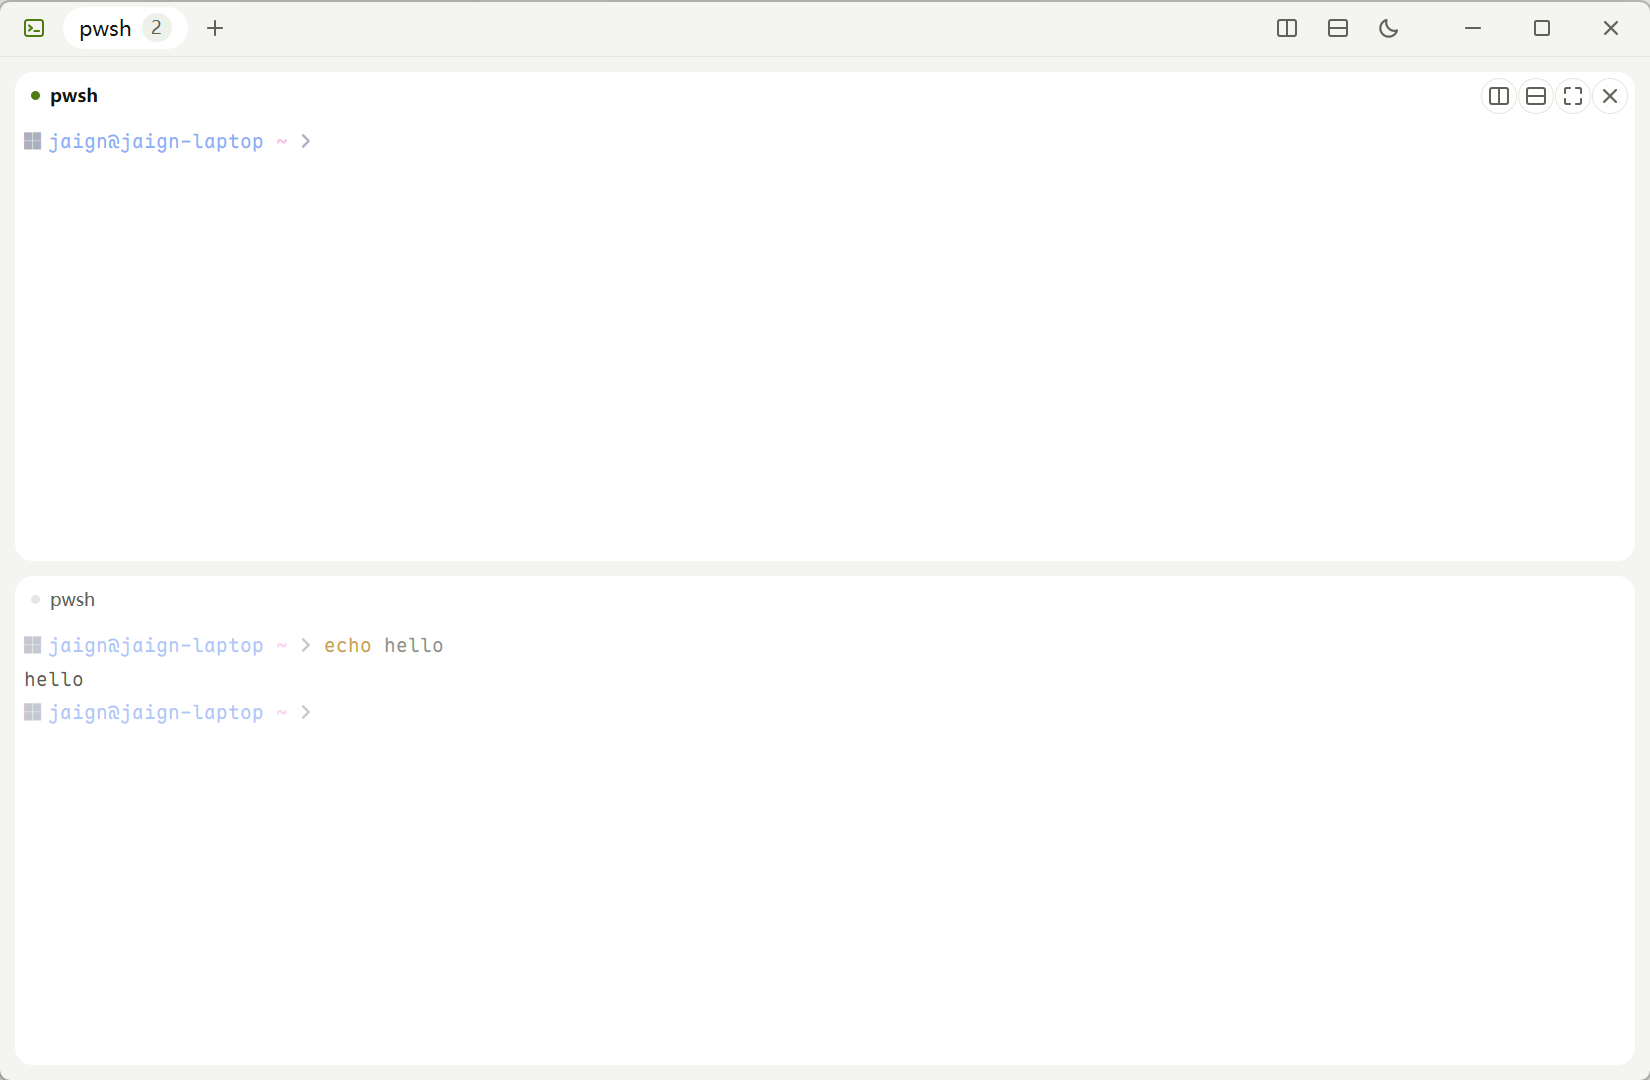
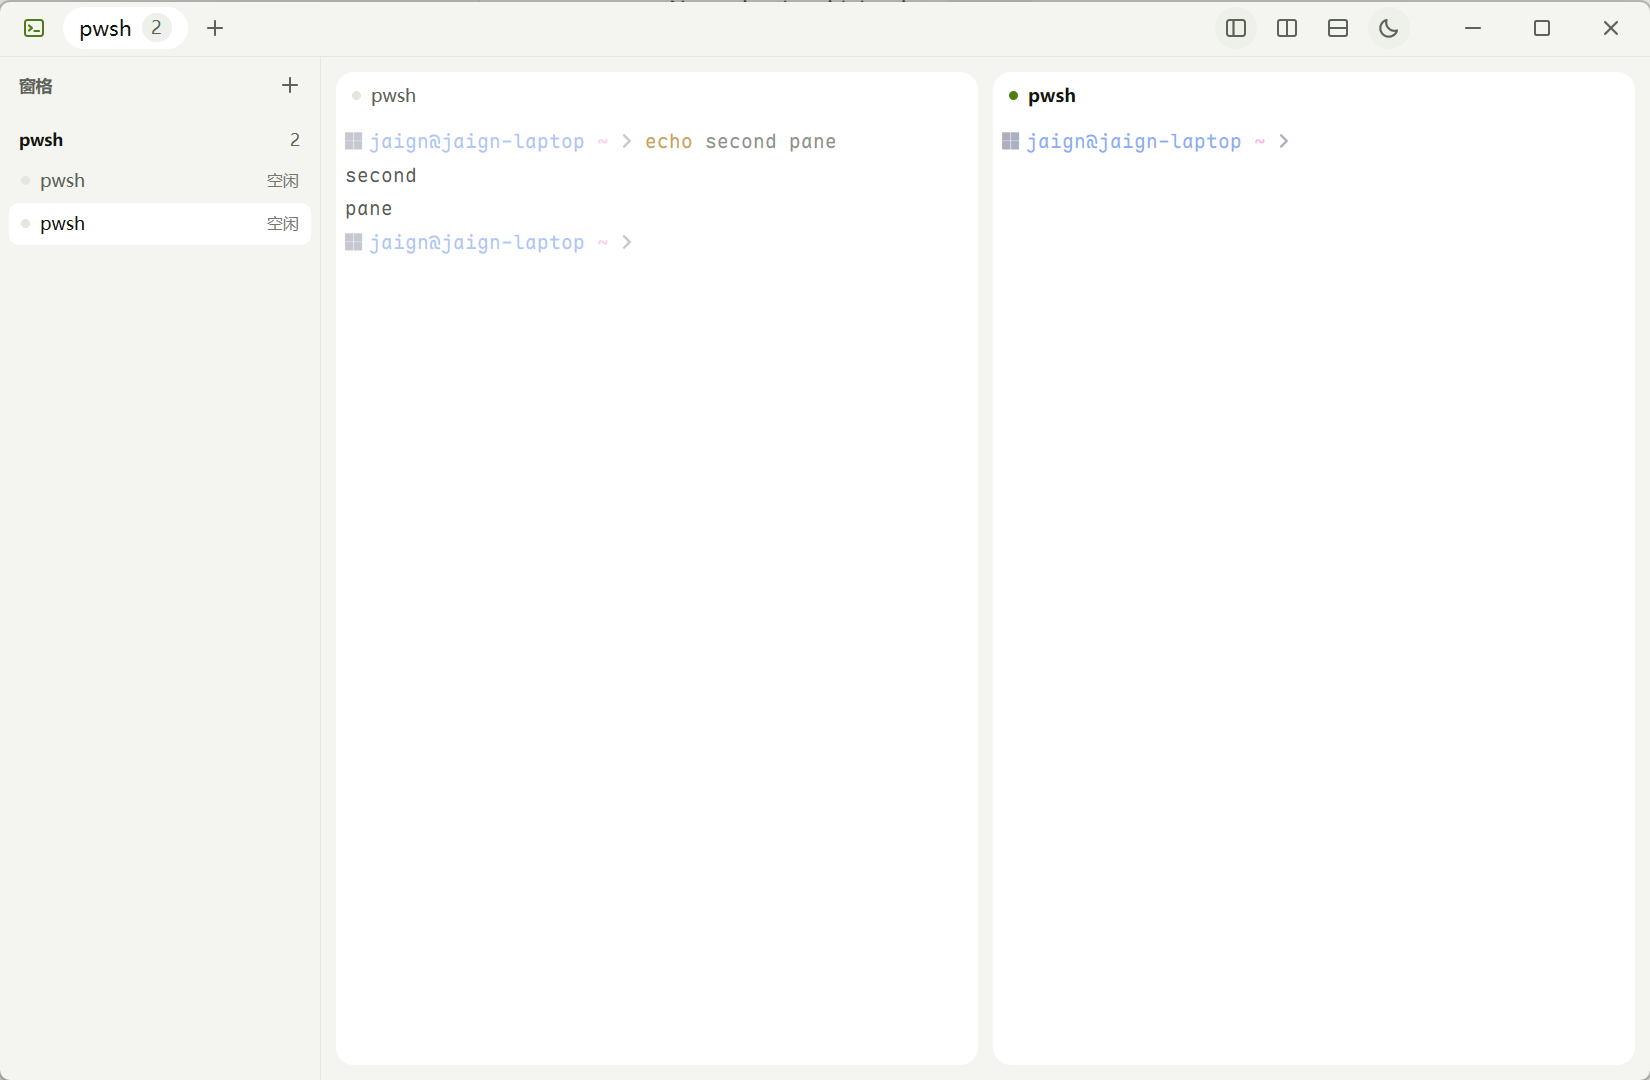
Add a sidebar that lists panes and what they are doing
Tabs and splits are two ways of saying the same thing, and once a window has
both, finding a particular pane means reading a tab strip and then a grid. The
list flattens that: each tab is a group, each pane a row with a state dot, a
name and what it is doing. Clicking a row takes the same path as clicking the
pane itself, so the two can never disagree.

The state asks nothing of the program. A pane is working when it wrote
something in the last moment, idle when it has not, exited when the process is
gone — which describes a shell, a build and a test watcher without any of them
having to report in.

It only appears when there is something to list. A single terminal with a
one-row list is a column spent on nothing, so the default follows the pane
count; once the user toggles it, that choice sticks.

Assisted-by: Cindy (https://cindy.app)

diff --git a/crates/app/src/main.rs b/crates/app/src/main.rs
@@ -41,6 +41,10 @@ const WINDOW_MINIMIZE: &[u8] = br#"<svg xmlns="http://www.w3.org/2000/svg" viewB
 const WINDOW_MAXIMIZE: &[u8] = br#"<svg xmlns="http://www.w3.org/2000/svg" viewBox="0 0 24 24" fill="none" stroke="black" stroke-width="2" stroke-linecap="round"><rect x="5" y="5" width="14" height="14" rx="1.5"/></svg>"#;
 
 /// Zoom a pane to fill the card; and the reverse.
+
+/// The sidebar toggle: a column beside a page.
+const SIDEBAR_ICON: &[u8] = br#"<svg xmlns="http://www.w3.org/2000/svg" viewBox="0 0 24 24" fill="none" stroke="black" stroke-width="2" stroke-linecap="round" stroke-linejoin="round"><rect x="3" y="4" width="18" height="16" rx="2.5"/><path d="M9.5 4v16"/></svg>"#;
+
 const ZOOM_IN: &[u8] = br#"<svg xmlns="http://www.w3.org/2000/svg" viewBox="0 0 24 24" fill="none" stroke="black" stroke-width="2" stroke-linecap="round" stroke-linejoin="round"><path d="M4 9V5.5A1.5 1.5 0 0 1 5.5 4H9"/><path d="M15 4h3.5A1.5 1.5 0 0 1 20 5.5V9"/><path d="M20 15v3.5a1.5 1.5 0 0 1-1.5 1.5H15"/><path d="M9 20H5.5A1.5 1.5 0 0 1 4 18.5V15"/></svg>"#;
 const ZOOM_OUT: &[u8] = br#"<svg xmlns="http://www.w3.org/2000/svg" viewBox="0 0 24 24" fill="none" stroke="black" stroke-width="2" stroke-linecap="round" stroke-linejoin="round"><path d="M9 4v3.5A1.5 1.5 0 0 1 7.5 9H4"/><path d="M20 9h-3.5A1.5 1.5 0 0 1 15 7.5V4"/><path d="M15 20v-3.5a1.5 1.5 0 0 1 1.5-1.5H20"/><path d="M4 15h3.5A1.5 1.5 0 0 1 9 16.5V20"/></svg>"#;
 
@@ -69,6 +73,9 @@ const PANE_HEADER_HEIGHT: f32 = 32.0;
 
 /// Corner radius of a pane card.
 const PANE_RADIUS: f32 = 12.0;
+
+/// Width of the pane list.
+const SIDEBAR_WIDTH: f32 = 214.0;
 
 /// Builds the 256-entry palette the parser should report: the ANSI sixteen
 /// followed by the library's defaults for the rest.
@@ -305,6 +312,9 @@ pub struct Workspace {
     /// A pane shown on its own, filling the window. The rest of the split stays
     /// as it was and comes back when the zoom is released.
     zoomed: Option<u64>,
+    /// What the user asked for. `None` means "decide by how much there is to
+    /// list", which is what keeps a single terminal free of a list of one.
+    sidebar_choice: Option<bool>,
     /// The split being dragged, as the two panes on either side plus the span
     /// the divider travels across. Present only while the divider is held.
     resize_drag: Option<ResizeDrag>,
@@ -330,6 +340,7 @@ impl Workspace {
             drag_anchor: None,
             selection: false,
             zoomed: None,
+            sidebar_choice: None,
             resize_drag: None,
             focus: cx.focus_handle(),
         }
@@ -653,6 +664,11 @@ impl Workspace {
                 }
                 "l" => {
                     self.toggle_theme(cx);
+                    cx.stop_propagation();
+                    return;
+                }
+                "b" => {
+                    self.toggle_sidebar(cx);
                     cx.stop_propagation();
                     return;
                 }
@@ -1181,11 +1197,18 @@ impl Render for Workspace {
 
         body = body.child(self.render_tabs(window, cx));
 
+        // The list and the panes sit side by side under the bar, so the window
+        // still has exactly one title row.
+        let mut content = div().flex_1().min_h_0().flex().flex_row();
+        if self.sidebar_shown() {
+            content = content.child(self.render_sidebar(&theme, cx));
+        }
+
         if let Some(error) = &self.error {
             // A failure is the one moment the grid is not there, so it gets the
             // same card treatment as a pane rather than a bare line of red text
             // floating in an empty window.
-            body = body.child(
+            content = content.child(
                 div()
                     .flex_1()
                     .flex()
@@ -1218,17 +1241,17 @@ impl Render for Workspace {
                             ),
                     ),
             );
-            return body;
+            return body.child(content);
         }
 
         let Some(tab) = self.active_tab() else {
-            return body;
+            return body.child(content);
         };
 
         // The pane area is chrome, not grid: the space between panes shows this
         // tone, so the panes read as cards laid on a surface rather than as
         // rectangles that happen to stop.
-        body.child(
+        content = content.child(
             div()
                 .flex_1()
                 .min_h_0()
@@ -1236,7 +1259,9 @@ impl Render for Workspace {
                 .p(px(10.0))
                 .bg(theme.title_bar)
                 .child(self.render_panes(tab, style, cx)),
-        )
+        );
+
+        body.child(content)
     }
 }
 
@@ -1514,6 +1539,168 @@ impl Workspace {
 }
 
 impl Workspace {
+    /// Whether the sidebar is on screen.
+    ///
+    /// With no explicit choice it follows how much there is to list: a list of
+    /// one is not worth a column, and a window full of panes is worth one even
+    /// if nobody asked. An explicit toggle wins either way.
+    fn sidebar_shown(&self) -> bool {
+        let panes: usize = self.tabs.iter().map(|tab| tab.panes.len()).sum();
+        self.sidebar_choice.unwrap_or(panes > 1)
+    }
+
+    fn toggle_sidebar(&mut self, cx: &mut Context<Self>) {
+        self.sidebar_choice = Some(!self.sidebar_shown());
+        cx.notify();
+    }
+
+    /// Every tab and pane, with enough state to jump to one.
+    ///
+    /// This is the whole model the sidebar reads: it is rebuilt from the
+    /// workspace each frame rather than kept in step with it, so there is
+    /// nothing to keep in sync.
+    fn render_sidebar(
+        &self,
+        theme: &gpui_kit::component::Theme,
+        cx: &mut Context<Self>,
+    ) -> AnyElement {
+        let mut list = div().flex().flex_col().gap(px(1.0)).px(px(6.0)).pb(px(8.0));
+
+        for (tab_index, tab) in self.tabs.iter().enumerate() {
+            let current_tab = tab_index == self.active_tab;
+
+            list = list.child(
+                div()
+                    .flex()
+                    .flex_row()
+                    .items_center()
+                    .gap(px(6.0))
+                    .h(px(26.0))
+                    .px(px(7.0))
+                    .mt(px(4.0))
+                    .child(
+                        div()
+                            .flex_1()
+                            .min_w_0()
+                            .overflow_hidden()
+                            .whitespace_nowrap()
+                            .text_ellipsis()
+                            .text_size(px(11.0))
+                            .font_weight(FontWeight::BOLD)
+                            .text_color(if current_tab {
+                                theme.foreground
+                            } else {
+                                theme.muted_foreground
+                            })
+                            .child(tab.title.clone()),
+                    )
+                    .child(
+                        div()
+                            .text_size(px(11.0))
+                            .text_color(theme.muted_foreground)
+                            .child(tab.panes.len().to_string()),
+                    ),
+            );
+
+            for (id, pane) in &tab.panes {
+                let id = *id;
+                let selected = current_tab && id == tab.active;
+                let status = pane_status(pane);
+                // Captured by the listeners below, which outlive this borrow.
+                let hover_bg = theme.muted;
+                let selected_bg = theme.background;
+
+                list = list.child(
+                    div()
+                        .id(("side-pane", id))
+                        .flex()
+                        .flex_row()
+                        .items_center()
+                        .gap(px(7.0))
+                        .h(px(28.0))
+                        .px(px(8.0))
+                        .rounded(px(7.0))
+                        .cursor_pointer()
+                        .when(selected, |this| this.bg(selected_bg))
+                        .when(!selected, |this| this.hover(move |this| this.bg(hover_bg)))
+                        .on_click(cx.listener(move |workspace, _: &ClickEvent, _, cx| {
+                            workspace.active_tab = tab_index;
+                            workspace.focus_pane(id, cx);
+                        }))
+                        .child(div().size(px(6.0)).rounded(px(999.0)).bg(match status {
+                            PaneStatus::Working => theme.ring,
+                            PaneStatus::Idle => theme.border,
+                            PaneStatus::Exited => theme.danger,
+                        }))
+                        .child(
+                            div()
+                                .flex_1()
+                                .min_w_0()
+                                .overflow_hidden()
+                                .whitespace_nowrap()
+                                .text_ellipsis()
+                                .text_size(px(12.0))
+                                .text_color(if selected {
+                                    theme.foreground
+                                } else {
+                                    theme.muted_foreground
+                                })
+                                .child(pane_label(pane)),
+                        )
+                        .child(
+                            div()
+                                .text_size(px(10.5))
+                                .text_color(theme.muted_foreground.opacity(0.85))
+                                .child(status.label()),
+                        ),
+                );
+            }
+        }
+
+        let header = div()
+            .flex()
+            .flex_row()
+            .items_center()
+            .h(px(TITLE_BAR_HEIGHT))
+            .pl(px(13.0))
+            .pr(px(6.0))
+            .child(
+                div()
+                    .flex_1()
+                    .text_size(px(11.0))
+                    .font_weight(FontWeight::BOLD)
+                    .text_color(theme.muted_foreground)
+                    .child("窗格"),
+            )
+            .child(
+                icon_button("side-new", IconName::Plus, theme, cx).on_click(cx.listener(
+                    |workspace, _: &ClickEvent, window, cx| {
+                        workspace.new_tab(window, cx);
+                    },
+                )),
+            );
+
+        div()
+            .w(px(SIDEBAR_WIDTH))
+            .flex_shrink_0()
+            .h_full()
+            .flex()
+            .flex_col()
+            .bg(theme.title_bar)
+            .border_r_1()
+            .border_color(theme.border)
+            .child(header)
+            .child(
+                div()
+                    .id("side-list")
+                    .flex_1()
+                    .min_h_0()
+                    .overflow_y_scroll()
+                    .child(list),
+            )
+            .into_any_element()
+    }
+
     /// Draws the title bar: window drag area, tabs, and window controls.
     ///
     /// This is the whole title bar, not a strip under one. The tabs live where
@@ -1581,6 +1768,15 @@ impl Workspace {
                     .flex_1()
                     .h_full()
                     .window_control_area(WindowControlArea::Drag),
+            )
+            // The list comes before the pane actions: it is a place to go, not
+            // an action on the current pane.
+            .child(
+                icon_button("toggle-sidebar", Glyph::Inline(SIDEBAR_ICON), &theme, cx)
+                    .when(self.sidebar_shown(), |this| this.bg(theme.muted))
+                    .on_click(cx.listener(|workspace, _: &ClickEvent, _, cx| {
+                        workspace.toggle_sidebar(cx);
+                    })),
             )
             .child(
                 icon_button("split-h", Glyph::Inline(SPLIT_HORIZONTAL), &theme, cx).on_click(
@@ -2163,6 +2359,36 @@ fn tab_title(pane: &Pane) -> Option<String> {
         None
     } else {
         Some(name.to_owned())
+    }
+}
+
+/// What a pane is doing, as far as the sidebar can tell.
+///
+/// There is no agent detection here: a pane is working when it wrote something
+/// in the last moment, idle when it has not, and exited when the process is
+/// gone. That covers a shell, a build and a test watcher without asking any of
+/// them to cooperate.
+enum PaneStatus {
+    Working,
+    Idle,
+    Exited,
+}
+
+impl PaneStatus {
+    fn label(self) -> &'static str {
+        match self {
+            Self::Working => "输出中",
+            Self::Idle => "空闲",
+            Self::Exited => "已退出",
+        }
+    }
+}
+
+fn pane_status(pane: &Pane) -> PaneStatus {
+    match pane.session.exit_code() {
+        Some(_) => PaneStatus::Exited,
+        None if pane.session.idle_for() < Duration::from_millis(1200) => PaneStatus::Working,
+        None => PaneStatus::Idle,
     }
 }
 

diff --git a/crates/app/src/terminal.rs b/crates/app/src/terminal.rs
@@ -5,6 +5,7 @@
 //! never has to talk to the parser.
 
 use std::sync::{Arc, Mutex};
+use std::time::{Duration, Instant};
 
 use pty::{Command, Pty};
 use vt::{Cursor, RenderState, Rgb, Row, Scrollbar, Terminal};
@@ -48,6 +49,9 @@ pub struct Session {
     /// Bytes the parser wants to send back to the program. Shared with the
     /// write-pty closure, which the parser calls while `feed` is running.
     pending_write: Arc<Mutex<Vec<u8>>>,
+    /// When the program last wrote anything. What the sidebar shows as
+    /// "working" is simply output that arrived a moment ago.
+    last_output: Instant,
 }
 
 impl Session {
@@ -94,6 +98,7 @@ impl Session {
             size: (cols, rows),
             exit: None,
             pending_write,
+            last_output: Instant::now(),
         };
         session.capture();
         Ok(session)
@@ -106,6 +111,7 @@ impl Session {
 
         if !bytes.is_empty() {
             self.term.feed(&bytes);
+            self.last_output = Instant::now();
             changed = true;
         }
 
@@ -211,6 +217,11 @@ impl Session {
     /// The selected text, if anything is selected.
     pub fn selected_text(&mut self) -> Option<String> {
         self.term.selected_text()
+    }
+
+    /// How long ago the program last wrote.
+    pub fn idle_for(&self) -> Duration {
+        self.last_output.elapsed()
     }
 
     pub fn exit_code(&self) -> Option<i32> {

diff --git a/README.md b/README.md
@@ -44,6 +44,7 @@ crates/
 - **中文输入**：窗格把自己注册为平台文本输入目标，输入法组字提交后写入 PTY。
 - **输入**：普通字符、功能键、方向键、`Ctrl` 组合键；按键编码交给解析器，因此 `application cursor keys` 等模式自动正确。
 - **标签**：新建（`Ctrl+Shift+T`）、关闭（`Ctrl+Shift+Q`）；标题跟随 shell 的 OSC 标题，路径会被截成文件名。
+- **窗格列表**：左侧一栏按标签列出所有窗格，每行一个状态点、名字和状态（输出中 / 空闲 / 已退出），点一下跳过去。窗格多于一个时自动出现，`Ctrl+Shift+B` 或标题栏的按钮可以手动开关；手动选过之后就不再自动变。
 - **分屏**：左右（`Ctrl+Shift+D`）、上下（`Ctrl+Shift+E`）、关闭窗格（`Ctrl+Shift+W`）、`Alt+方向键` 切换；窗格是浮在外壳上的卡片，彼此留出间距，拖动间隙即可调整比例。
 - **窗格头**：分成多个窗格后，每个窗格顶部有一行名字和状态点（绿=键盘所在，红=进程已退出）。鼠标移上去会出现分屏、缩放、关闭按钮，不必回到标题栏。缩放（`Ctrl+Shift+Z`）让一个窗格临时占满整个卡片，其余窗格保持原样。
 - **焦点**：没有键盘的窗格会整体变淡——底色抬起、文字蒙一层薄雾。这比画一圈边框更安静，也更容易一眼看出打字会进哪里。
